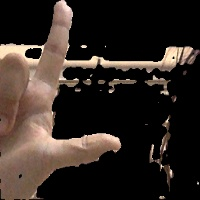
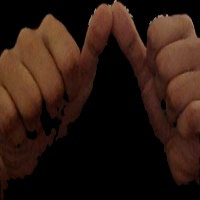
added char a

diff --git a/TrainData/creatingDataset.py b/TrainData/creatingDataset.py
@@ -4,7 +4,7 @@ import numpy as np
 
 # cam=int(raw_input("Enter Camera Index : "))
 cap=cv2.VideoCapture(0) #camera
-i=4 #this variable is used to get the number of the character eg:- A = 1
+i=1 #this variable is used to get the number of the character eg:- A = 1
 j=1 #number of the picture. Start with 1
 name=""
 
@@ -37,8 +37,8 @@ while(cap.isOpened()): #if camera is opened
 	# Cb_min = cv2.getTrackbarPos('Cb_min','trackbar')
 	# Cb_max = cv2.getTrackbarPos('Cb_max','trackbar')
 	_,img=cap.read() #read the image
-	cv2.rectangle(img,(100,100),(500,500),(255,0,0),3) #create the rectangle
-	img1=img[100:500,100:500] #just get the image in the rectangle
+	cv2.rectangle(img,(300,200),(800,600),(255,0,0),3) #create the rectangle
+	img1=img[300:600,200:800] #just get the image in the rectangle
 	img_ycrcb = cv2.cvtColor(img1, cv2.COLOR_BGR2YCR_CB)
 	blur = cv2.GaussianBlur(img_ycrcb,(11,11),0)
 	# skin_ycrcb_min = np.array((Y_min,Cr_min,Cb_min))
